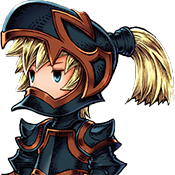
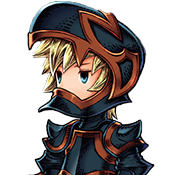
ajout de nouvelles textures

diff --git a/client/client/src/WarmUp.cpp b/client/client/src/WarmUp.cpp
@@ -19,6 +19,7 @@ WarmUp::WarmUp(bool debug, ManagerGroup * ptr_managerGroup) :
         m_returnButton()
 {
 
+    m_nbPlayer = 0;
     m_charSelected = false;
     noError();
     int leftBorder = 15;
@@ -199,6 +200,11 @@ void WarmUp::update(sf::RenderWindow * window,
         m_selectCharacterPanel.setVisible(false);
         m_ptr_managerGroup->ptr_targetManager->isOnLobby();
     }*/
+
+    /*if (m_nbPlayer==5){
+        m_playButton.setVisible(true);
+    }*/
+
     if(m_inputHandler.getComponentId() == "playButton") {
         if (m_charSelected){
             m_playButton.setVisible(false);
@@ -268,10 +274,14 @@ void WarmUp::receiveRequest(){
             break;
 
         case 3:
-            //
+            //Nom perso - nom joueur
+            // ex : "eldora""Lucas"
             *packet >> sRequest >> sRequest2;
-            //TODO : Désactiver le personnage (idRequest)
+            m_nbPlayer++;
+            //TODO : Désactiver le personnage
             //TODO : Afficher le nom du joueur avec l'image du personnage sélectionné
+            blockCharacter(sRequest);
+
 
             break;
     }
@@ -284,4 +294,30 @@ void WarmUp::blockCharacters() {
     m_remingtonButton.setEnabled(false);
     m_tristanButton.setEnabled(false);
     m_mdjButton.setEnabled(false);
+    m_nbPlayer++;
+}
+
+void WarmUp::blockCharacter(std::string character) {
+    if (character=="eldora") {
+        m_eldoraButton.setEnabled(false);
+
+    }
+    if (character=="remington"){
+        m_remingtonButton.setEnabled(false);
+
+    }
+    if (character=="mdj"){
+        m_mdjButton.setEnabled(false);
+
+    }
+    if (character=="tristan"){
+        m_tristanButton.setEnabled(false);
+
+    }
+    if (character=="numero8"){
+        m_numero8Button.setEnabled(false);
+
+    }
+
+
 }

diff --git a/client/client/src/LoginMenu.cpp b/client/client/src/LoginMenu.cpp
@@ -45,7 +45,7 @@ LoginMenu::LoginMenu(bool debug, ManagerGroup * ptr_managerGroup) :
 	//				 ptr_managerGroup->ptr_textureManager->getTexture("loading"),
 	//			 true, 0.1, 49,  49, 8);
 
-	//m_loading.setVisible(true);
+	//m_loading.setVisible(false);
 	//getContentPane()->addComponent(&m_loading);
 	//m_loading.start();
 
@@ -91,9 +91,8 @@ void LoginMenu::update(sf::RenderWindow * window,
 	// Basic Interface updating
 	basicInput(e, frameTime);
 
-	sf::Event ev = *e;
 	if(m_inputHandler.getComponentId() == "connectButton" || sf::Keyboard::isKeyPressed(sf::Keyboard::Return)) {
-		//m_loading.setVisible(true);
+        //m_loading.setVisible(true);
 		tryConnection();
 	}
 
@@ -103,9 +102,10 @@ void LoginMenu::update(sf::RenderWindow * window,
 }
 
 void LoginMenu::tryConnection(){
+	//;
 	//m_errorPanel.setVisible(false);
 	if(m_textFieldLogin.getString() != "") {
-		//sf::sleep(sf::milliseconds(2500));
+
 		if (m_ptr_managerGroup->ptr_networkManager->connect()) {
 			m_ptr_managerGroup->ptr_networkManager->startThread();
 			m_ptr_managerGroup->ptr_gameManager->getPlayer()->setName(m_textFieldLogin.getString());

diff --git a/client/client/src/ResourceLoader.cpp b/client/client/src/ResourceLoader.cpp
@@ -99,7 +99,7 @@ void ResourceLoader::load() {
     a_tm.addTexture("rejoindreButton_1", pathLogin + "rejoindreButton_1.png");
     a_tm.addTexture("rejoindreButton_2", pathLogin + "rejoindreButton_2.png");
 	a_tm.addTexture("bibouPanel", pathLogin + "bibouPanel.png");
-	a_tm.addTexture("bibouPanel2", pathLogin + "bibouPanel_2.png");
+	a_tm.addTexture("bibouPanel2", pathLogin + "bibouPanel2.png");
 	a_tm.addTexture("paperSwordTitlePanel", pathLogin + "paperSwordTitleFull.png");
 	a_tm.addTexture("backButton_1", pathLogin + "backButton_1.png");
 	a_tm.addTexture("backButton_2", pathLogin + "backButton_2.png");
@@ -117,7 +117,7 @@ void ResourceLoader::load() {
 	a_tm.addTexture("remingtonInWarmUp", pathChar + "Remington_inWarmUp.png");
 	a_tm.addTexture("tristanInWarmUp", pathChar + "Tristan_De_La_Mortifere_inWarmUp.png");
 	a_tm.addTexture("eldoraInWarmUp", pathChar +  "Eldora_Dragnir_inWarmUp.png");
-	a_tm.addTexture("mdjInWarmUp",pathChar + "Mdj_175.png");
+	a_tm.addTexture("mdjInWarmUp",pathChar + "Mdj_inWarmUp.png");
 
 	//in game
 	a_tm.addTexture("eldoraInGame",pathChar + "Eldora_Dragnir_inGame.png");

diff --git a/client/client/src/Game.cpp b/client/client/src/Game.cpp
@@ -519,6 +519,37 @@ void Game::receiveRequest() {
     m_ptr_managerGroup->ptr_networkManager->setHasPacket(false);
     sf::Packet *packet = m_ptr_managerGroup->ptr_networkManager->getPacket();
     //TODO
+
+    sf::Int32 idRequest;
+    *packet >> idRequest;
+    std::string sRequest;
+    std::string sRequest2;
+
+    std::cout << "IdRequest " << idRequest << std::endl;
+    std::cout << "sRequest " << sRequest << std::endl;
+
+    switch (idRequest){
+        case 1:
+            //On reçoit un message pour le chat
+            *packet >> sRequest;
+            addTextToChat(sRequest);
+            break;
+
+        case 2:
+
+            break;
+
+        case 3:
+            //TODO : Désactiver le personnage (idRequest)
+            //TODO : Afficher le nom du joueur avec l'image du personnage sélectionné
+
+            break;
+    }
+
+}
+
+void Game::addTextToChat(std::string message){
+    //TODO
 }
 
 

diff --git a/client/client/include/WarmUp.hpp b/client/client/include/WarmUp.hpp
@@ -30,6 +30,8 @@ class WarmUp : public BasicInterface
 
         sf::Font m_fontLabel;
 
+        int m_nbPlayer;
+
 
 public:
         // Constructor
@@ -47,6 +49,8 @@ public:
         void receiveRequest();
 
         void blockCharacters();
+
+    void blockCharacter(std::string basic_string);
 };
 
 #endif //CLIENT_WARMUP_HPP

diff --git a/client/client/src/Nemesis.cpp b/client/client/src/Nemesis.cpp
@@ -49,7 +49,7 @@ int main(int argc, char ** argv)
     Game game(DEBUG, managerGroup);
 
     // Setting main target
-    managerGroup->ptr_targetManager->isOnLoginMenu();
+    managerGroup->ptr_targetManager->isOnGame();
 
     sf::Clock clock;
     while (window.isOpen())

diff --git a/client/client/include/Game.hpp b/client/client/include/Game.hpp
@@ -128,6 +128,7 @@ public:
                         sf::Event * e, double frameTime);
 
     void receiveRequest();
+    void addTextToChat(std::string message);
 };
 
 
